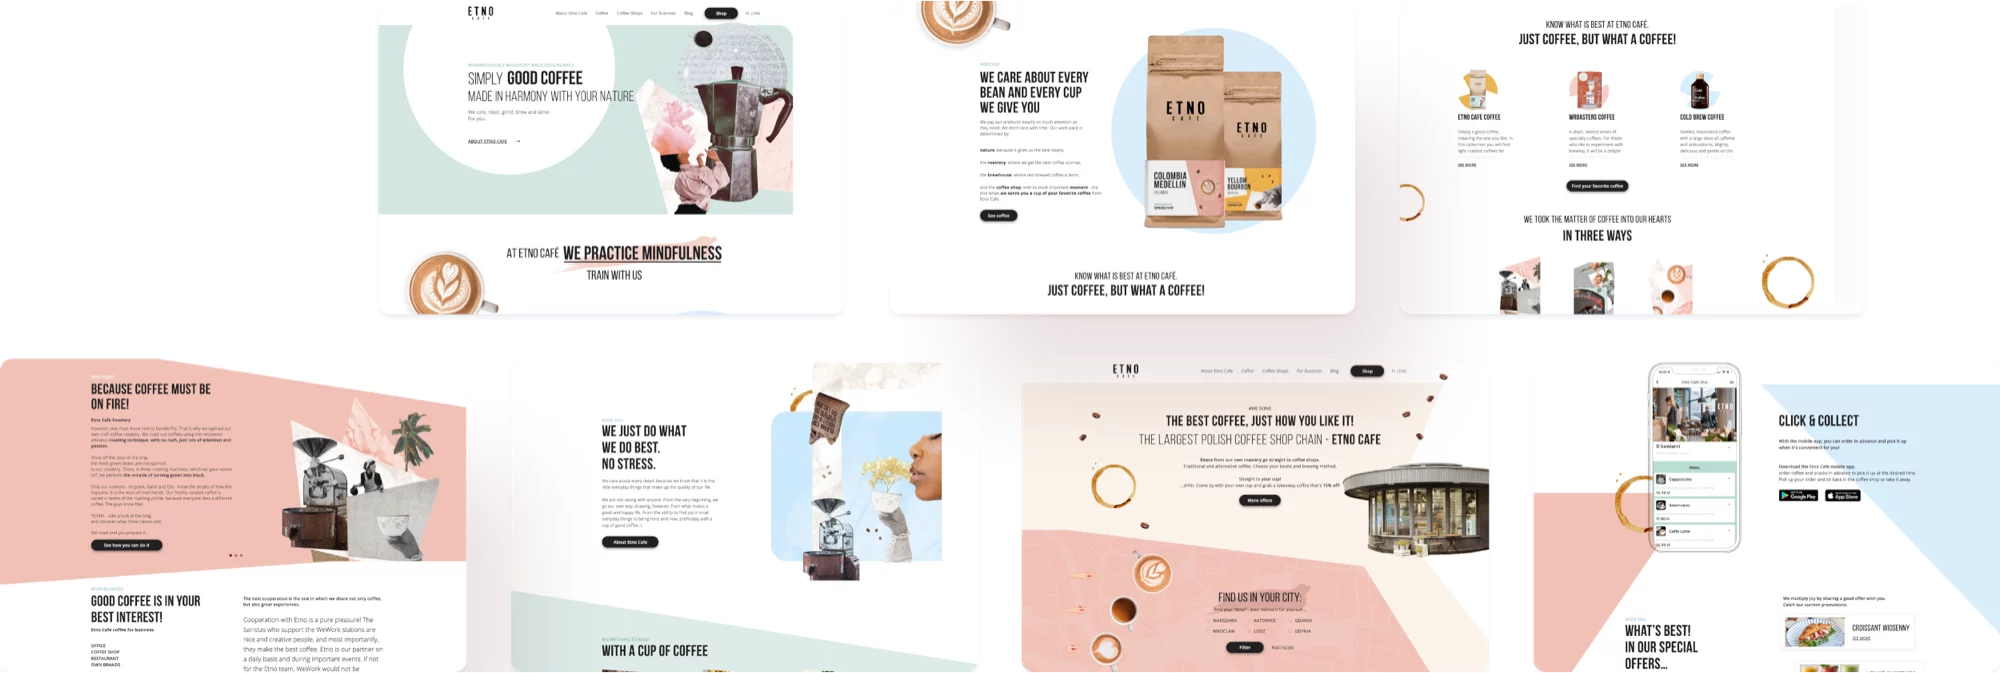
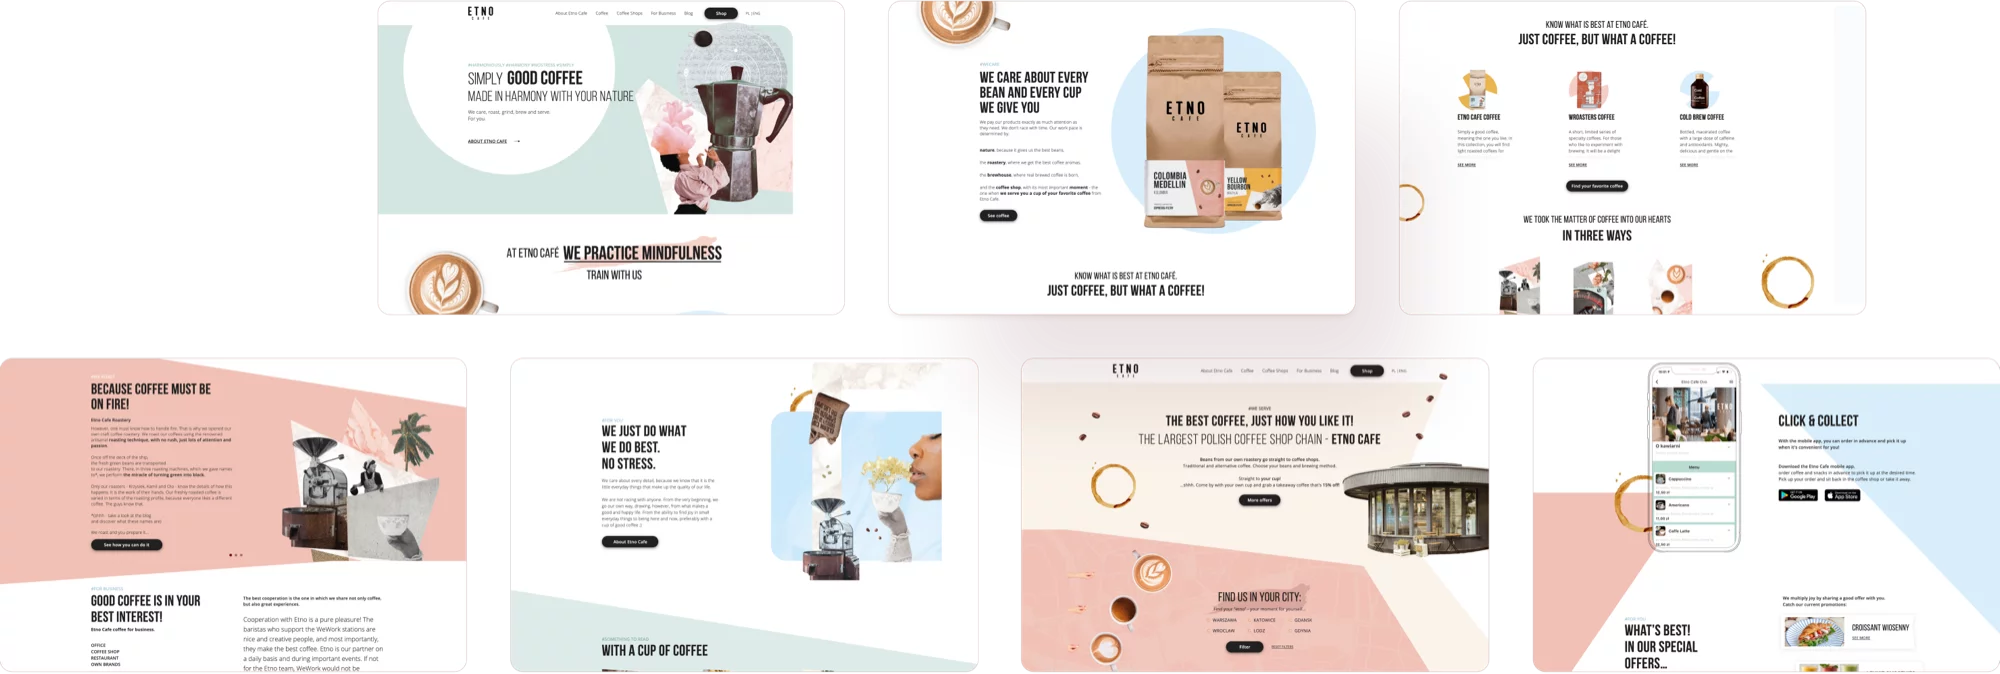
change etno hero images

diff --git a/_sass/new-styles/modules/portfolio-cases/etno/_hero.scss b/_sass/new-styles/modules/portfolio-cases/etno/_hero.scss
@@ -49,10 +49,10 @@
   
     &-img {
       position: relative;
-      top: 40px;
+      top: 50px;
       z-index: -1;
-      transform: translateX(-18%);
-      width: 150%;
+      transform: translateX(-12%);
+      width: 130%;
     }
   }
 }
@@ -100,7 +100,7 @@
       }
   
       &-img {
-        top: 160px;
+        top: 150px;
         transform: translateX(-30%);
         width: 550px;
       }
@@ -111,7 +111,6 @@
 @media (min-width: 811px) {
   .etno-hero {
     height: 520px;
-    overflow: visible;
 
     &__wrapper {
       padding-top: 150px;
@@ -142,9 +141,9 @@
 
       &-img {
         top: 70px;
-        left: -170px;
+        left: -100px;
         transform: none;
-        width: 750px;
+        width: 600px;
       }
     }
   }
@@ -186,7 +185,8 @@
 
       &-img {
         top: -35px;
-        width: 900px;
+        left: -70px;
+        width: 740px;
       }
     }
   }
@@ -215,7 +215,8 @@
 
       &-img {
         top: -20px;
-        width: 1000px;
+        left: -50px;
+        width: 820px;
       }
     }
   }
